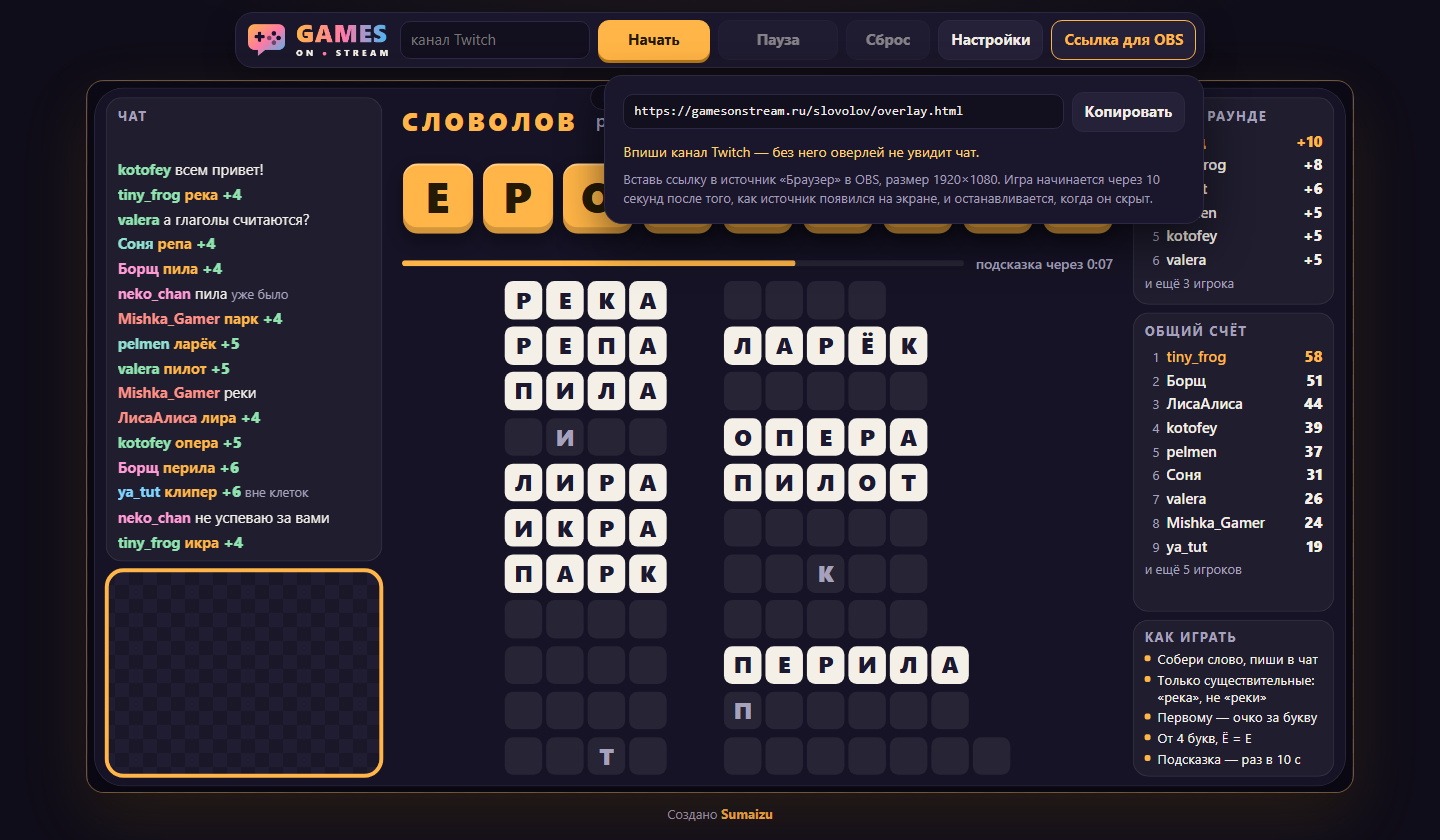
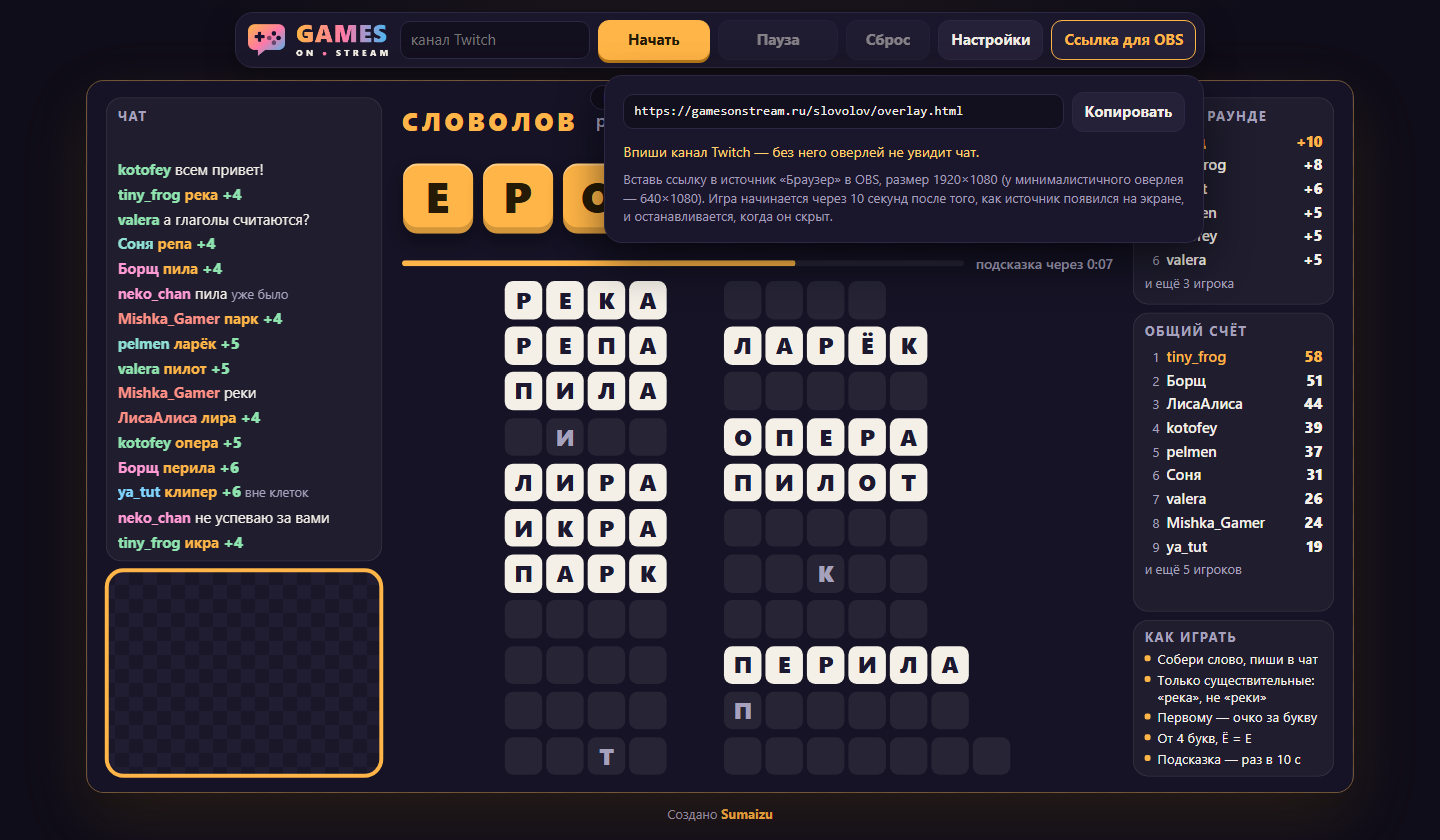
Фон оверлея до краёв, без скруглений

Changed region(s): [[0.4062, 0.1857, 0.8125, 0.3405], [0.8125, 0.2786, 0.8438, 0.3095]]

diff --git a/site/css/overlay.css b/site/css/overlay.css
@@ -2,7 +2,6 @@
   --accent: #ffb547;
   --accent-ink: #241a06;
   --card: #151325;
-  --backdrop: #0c0a16;
   --line: rgba(255, 255, 255, .09);
   --ink: #f4f0e8;
   --ink-dark: #1b1830;
@@ -32,22 +31,10 @@ body {
 }
 
 .card {
-  position: absolute; inset: 6px; z-index: 0; padding: 10px 12px;
+  position: absolute; inset: 0; z-index: 0; padding: 16px 18px;
   display: grid; gap: 8px 20px;
   grid-template: "chat main side" minmax(0, 1fr) "cam main side" 210px / 280px minmax(0, 1fr) 204px;
-  border-radius: 30px; overflow: hidden;
-  box-shadow: 0 10px 30px rgba(0, 0, 0, .35);
-}
-.card::after {
-  content: ""; position: absolute; inset: 0; border-radius: inherit; pointer-events: none;
-  box-shadow: inset 0 0 0 1px var(--line);
-}
-#stage::before {
-  content: ""; position: absolute; left: 18px; top: 494px; z-index: -1; width: 280px; height: 210px;
-  border-radius: 18px; box-shadow: 0 0 0 1400px var(--backdrop); clip-path: inset(-494px -982px -16px -18px);
-}
-.nocam #stage::before {
-  inset: 0; width: auto; height: auto; border-radius: 0; box-shadow: none; background: var(--backdrop);
+  overflow: hidden;
 }
 
 .cam { grid-area: cam; position: relative; z-index: -1; border-radius: 18px; box-shadow: 0 0 0 2000px var(--card); }
@@ -58,18 +45,17 @@ body {
 .nocam .cam { display: none; }
 .nocam .chatbox { grid-row: 1 / 3; }
 .vtuber .card { grid-template: "chat main side" minmax(0, 1fr) "cam main side" 360px / 280px minmax(0, 1fr) 204px; }
-.vtuber #stage::before { top: 344px; height: 360px; clip-path: inset(-344px -982px -16px -18px); }
 .nocam .card { background: var(--card); }
 
 .mini { --empty: rgba(21, 19, 37, .62); --muted: #cfcbe2; }
 .mini #stage { width: 426.667px; }
-.mini #stage::before, .mini .card::after, .mini .cam, .mini .chatbox, .mini .side, .mini .round, .mini .status,
+.mini .cam, .mini .chatbox, .mini .side, .mini .round, .mini .status,
 .mini .clock, .mini .count, .mini .timeline { display: none; }
 .mini .play { grid-template-rows: 64px minmax(0, 1fr); }
 .mini .play.dense { grid-template-rows: 64px minmax(0, 1fr); }
 .mini .card {
   inset: 0; padding: 12px 12px; grid-template: "main" minmax(0, 1fr) / minmax(0, 1fr);
-  border-radius: 0; background: none; box-shadow: none;
+  background: none;
 }
 .mini .head { height: 40px; gap: 10px; }
 .mini .head .logo { display: block; height: 32px; }
